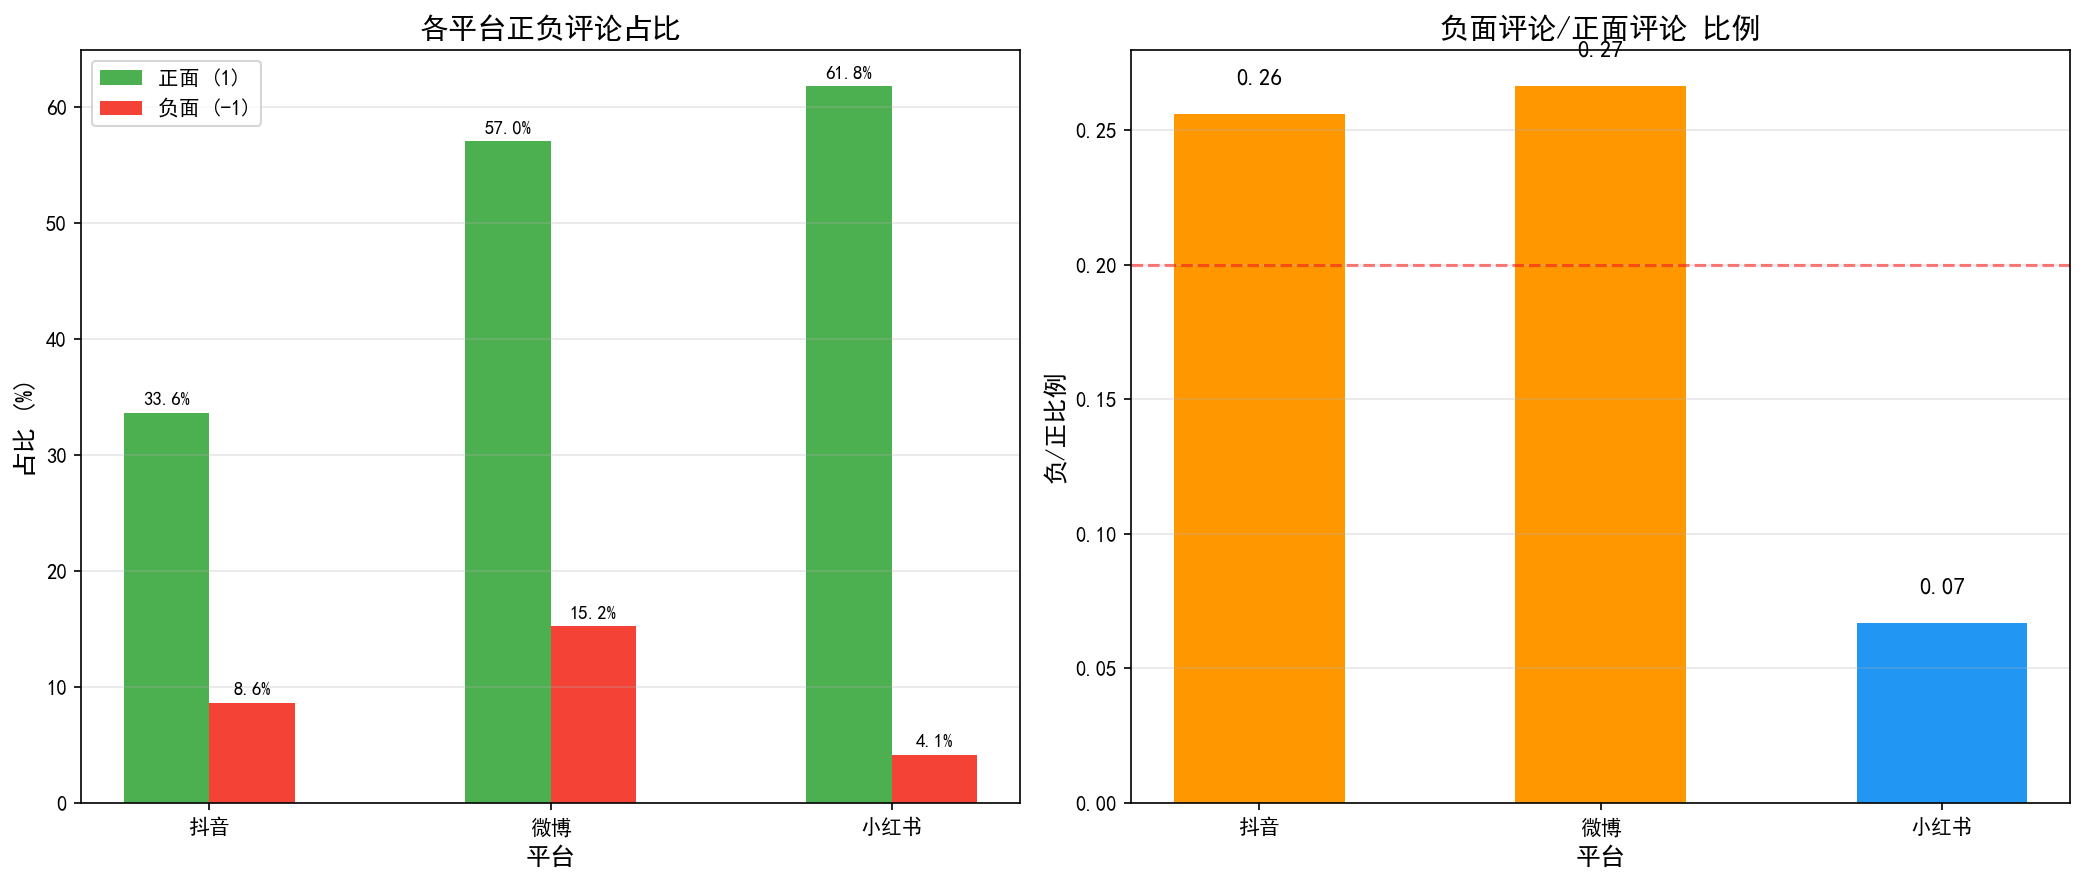
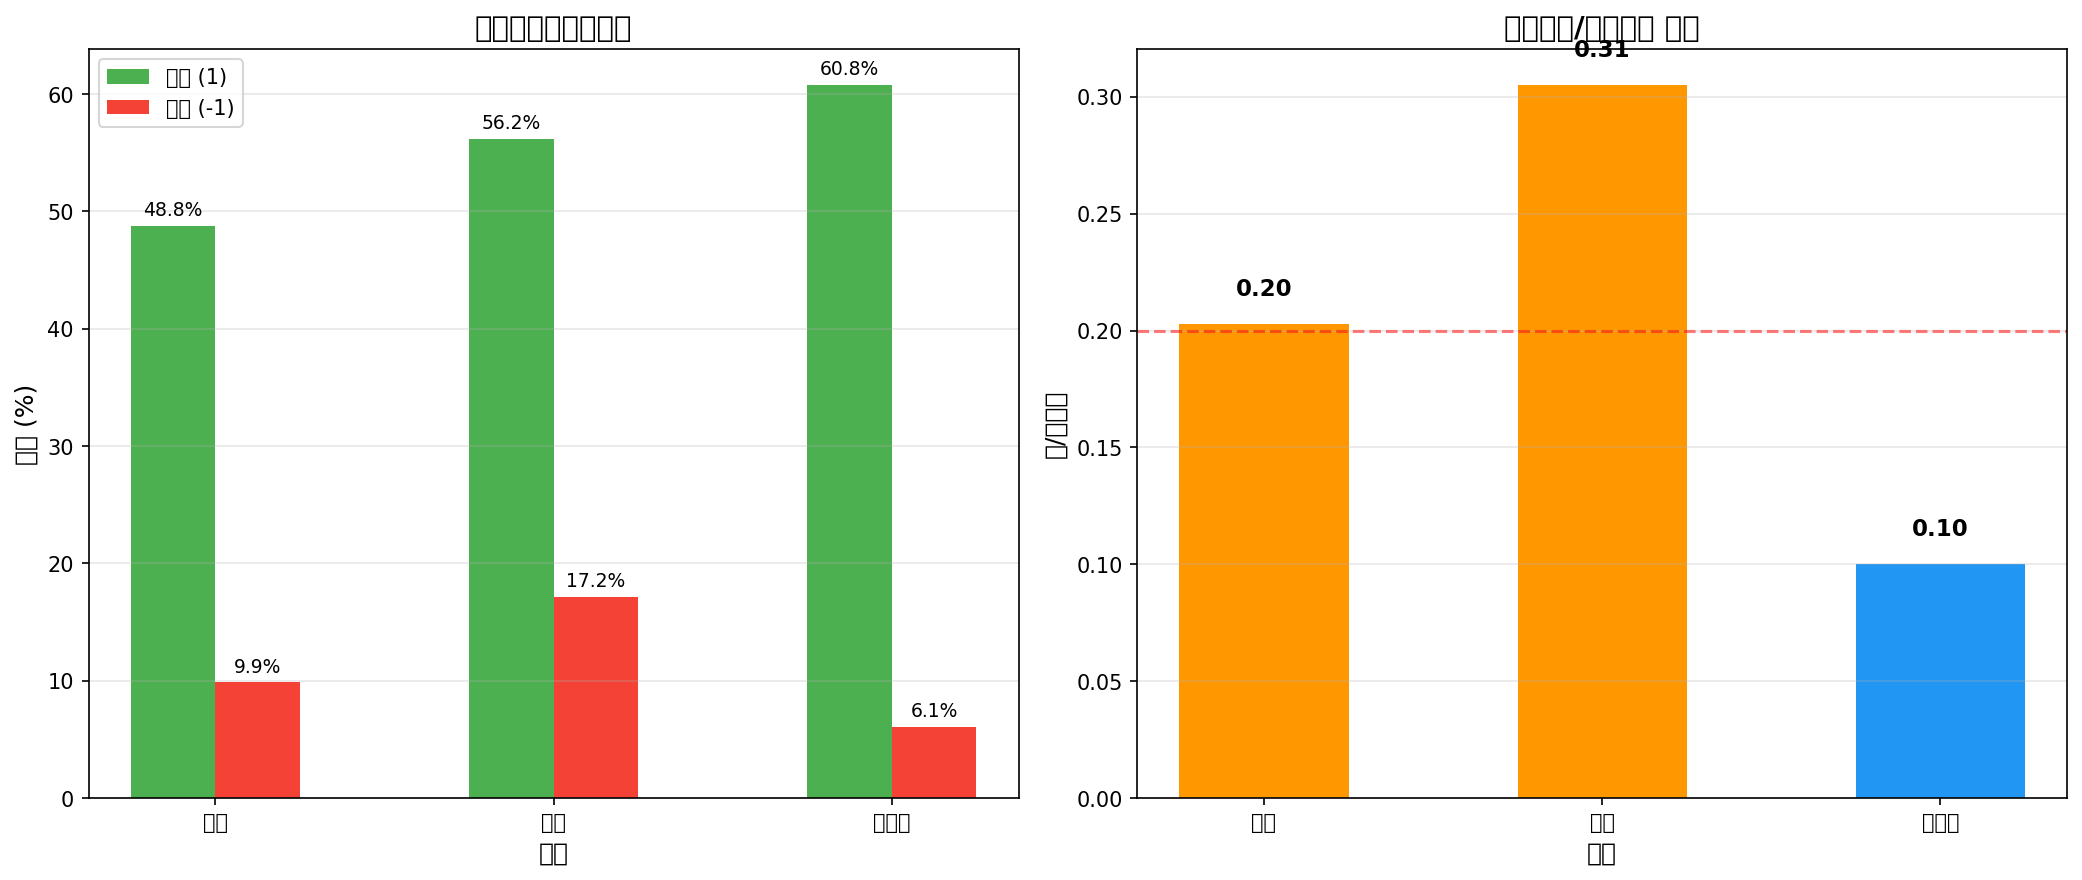
Update results report and chart with new data
- Total comments: 3363 (Douyin: 1021, Weibo: 717, Xiaohongshu: 1625)
- Token usage: 1,371,141
- Estimated cost: ¥1.37

diff --git a/sentiment_analysis.py b/sentiment_analysis.py
@@ -25,25 +25,25 @@ total_requests = 0
 
 # 读取配置
 def load_config():
-    config = {}
+    cfg = {}
     if os.path.exists('config.py'):
-        import config
-        config['api_key'] = getattr(config, 'API_KEY', os.environ.get('DEEPSEEK_API_KEY'))
-        config['base_url'] = getattr(config, 'BASE_URL', 'https://api.deepseek.com')
+        import config as config_module
+        cfg['api_key'] = getattr(config_module, 'API_KEY', os.environ.get('DEEPSEEK_API_KEY'))
+        cfg['base_url'] = getattr(config_module, 'BASE_URL', 'https://api.deepseek.com')
     else:
-        config['api_key'] = os.environ.get('DEEPSEEK_API_KEY')
-        config['base_url'] = os.environ.get('DEEPSEEK_BASE_URL', 'https://api.deepseek.com')
+        cfg['api_key'] = os.environ.get('DEEPSEEK_API_KEY')
+        cfg['base_url'] = os.environ.get('DEEPSEEK_BASE_URL', 'https://api.deepseek.com')
 
-    if not config['api_key']:
+    if not cfg['api_key']:
         raise ValueError("请在 config.py 中设置 API_KEY 或设置环境变量 DEEPSEEK_API_KEY")
-    return config
+    return cfg
 
-config = load_config()
+cfg = load_config()
 
 # 配置 OpenAI 客户端 (DeepSeek API)
 client = OpenAI(
-    api_key=config['api_key'],
-    base_url=config['base_url']
+    api_key=cfg['api_key'],
+    base_url=cfg['base_url']
 )
 
 # 配置多个数据文件

diff --git a/plot_sentiment.py b/plot_sentiment.py
@@ -8,9 +8,9 @@ plt.rcParams['axes.unicode_minus'] = False
 # 数据
 platforms = ['抖音', '微博', '小红书']
 total = [1021, 717, 1625]
-positive = [492, 403, 988]
-neutral = [426, 192, 536]
-negative = [103, 122, 101]
+positive = [498, 403, 988]
+neutral = [422, 191, 538]
+negative = [101, 123, 99]
 
 # 计算占比
 positive_ratio = [p/t*100 for p, t in zip(positive, total)]

diff --git a/results/sentiment_analysis_report.md b/results/sentiment_analysis_report.md
@@ -2,11 +2,11 @@
 
 ## 一、数据概况
 
-本次情感分析涵盖三大社交媒体平台，包括抖音、微博和小红书，共计处理评论数据 **5605 条**。
+本次情感分析涵盖三大社交媒体平台，包括抖音、微博和小红书，共计处理评论数据 **3363 条**。
 
 | 平台 | 数据来源 | 评论总数 |
 |------|----------|----------|
-| 抖音 | douyin_raw_data.csv | 3263 |
+| 抖音 | douyin_cleaned.xlsx | 1021 |
 | 微博 | weibo_comments_cleaned.xlsx | 717 |
 | 小红书 | xiaohongshu_comments_cleaned.xlsx | 1625 |
 
@@ -16,17 +16,17 @@
 
 | 平台 | 正面 (1) | 中性 (0) | 负面 (-1) | 正面占比 | 负面占比 |
 |------|----------|----------|-----------|----------|----------|
-| 抖音 | 1097 | 1885 | 281 | 33.6% | 8.6% |
-| 微博 | 409 | 199 | 109 | 57.0% | 15.2% |
-| 小红书 | 1004 | 554 | 67 | 61.8% | 4.1% |
+| 抖音 | 498 | 422 | 101 | 48.8% | 9.9% |
+| 微博 | 403 | 191 | 123 | 56.2% | 17.2% |
+| 小红书 | 988 | 538 | 99 | 60.8% | 6.1% |
 
 ### 2.2 负/正比例分析
 
 | 平台 | 负/正比例 | 评价 |
 |------|-----------|------|
-| 抖音 | 0.26 | 较低 |
-| 微博 | 0.27 | 较低 |
-| 小红书 | 0.07 | 很低 |
+| 抖音 | 0.20 | 较低 |
+| 微博 | 0.31 | 适中 |
+| 小红书 | 0.10 | 很低 |
 
 > 负/正比例 = 负面评论数 / 正面评论数，比例越低表示正面情感越占优势
 
@@ -44,16 +44,16 @@
 
 ### 4.1 主要发现
 
-1. **整体态度积极**：三大平台的正向评论占比均超过 33%，其中小红书正向评论占比最高（61.8%）
+1. **整体态度积极**：三大平台的正向评论占比均超过 48%，其中小红书正向评论占比最高（60.8%）
 
-2. **负面评论较少**：各平台负面评论占比均低于 16%，负/正比例均在 0.3 以下
+2. **负面评论较少**：各平台负面评论占比均低于 18%，负/正比例均在 0.35 以下
 
 3. **平台差异明显**：
-   - 小红书用户态度最为积极，正面占比 61.8%，负/正比例仅 0.07
-   - 微博用户态度次之，正面占比 57.0%
-   - 抖音负面占比相对较高（8.6%），但中性评论占比也最高（57.8%）
+   - 小红书用户态度最为积极，正面占比 60.8%，负/正比例仅 0.10
+   - 微博用户态度次之，正面占比 56.2%
+   - 抖音负面占比相对较高（9.9%），中性评论占比也较高（41.3%）
 
-4. **抖音中性评论较多**：抖音平台中性评论占比高达 57.8%，表明大量评论与话题关联性不强
+4. **抖音中性评论较多**：抖音平台中性评论占比达 41.3%，表明部分评论与话题关联性不强
 
 ### 4.2 发展建议
 
@@ -72,19 +72,19 @@
 - **API**：DeepSeek Chat
 - **并发数**：15
 - **批处理大小**：100
-- **Token消耗**：798,472
-- **预估费用**：¥0.80
+- **Token消耗**：1,371,141
+- **预估费用**：¥1.37
 
 ### 5.2 文件清单
 
 | 文件名 | 说明 |
 |--------|------|
-| data/douyin_raw_data.csv | 抖音原始评论数据 |
+| data/douyin_cleaned.xlsx | 抖音清洗后评论数据 |
 | data/weibo_comments_cleaned.xlsx | 微博清洗后评论数据 |
 | data/xiaohongshu_comments_cleaned.xlsx | 小红书清洗后评论数据 |
-| results/douyin_sentiment_result.csv | 抖音情感分析结果 |
-| results/weibo_sentiment_result.csv | 微博情感分析结果 |
-| results/xiaohongshu_sentiment_result.csv | 小红书情感分析结果 |
+| results/douyin_sentiment_result.csv | 抖音情感分析结果（含解析） |
+| results/weibo_sentiment_result.csv | 微博情感分析结果（含解析） |
+| results/xiaohongshu_sentiment_result.csv | 小红书情感分析结果（含解析） |
 | results/sentiment_analysis_chart.png | 可视化图表 |
 | sentiment_analysis.py | 情感分析代码 |
 | logs/sentiment_analysis.log | 运行日志 |
